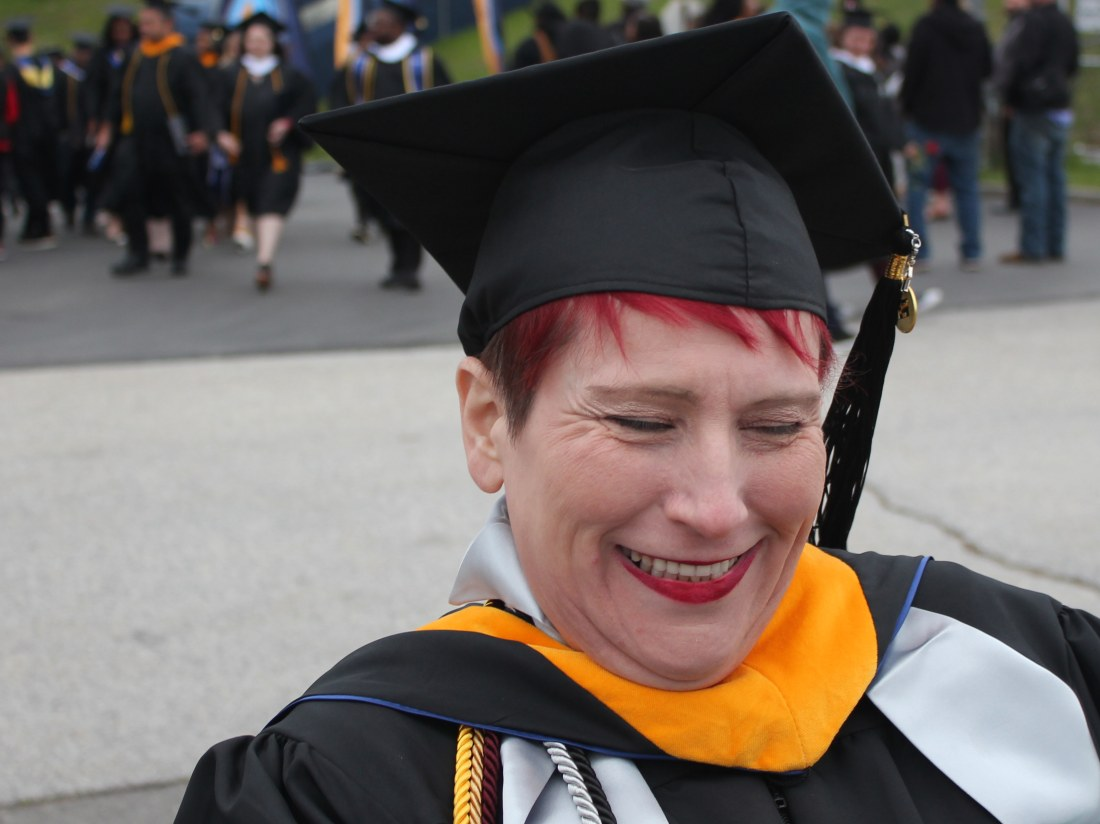
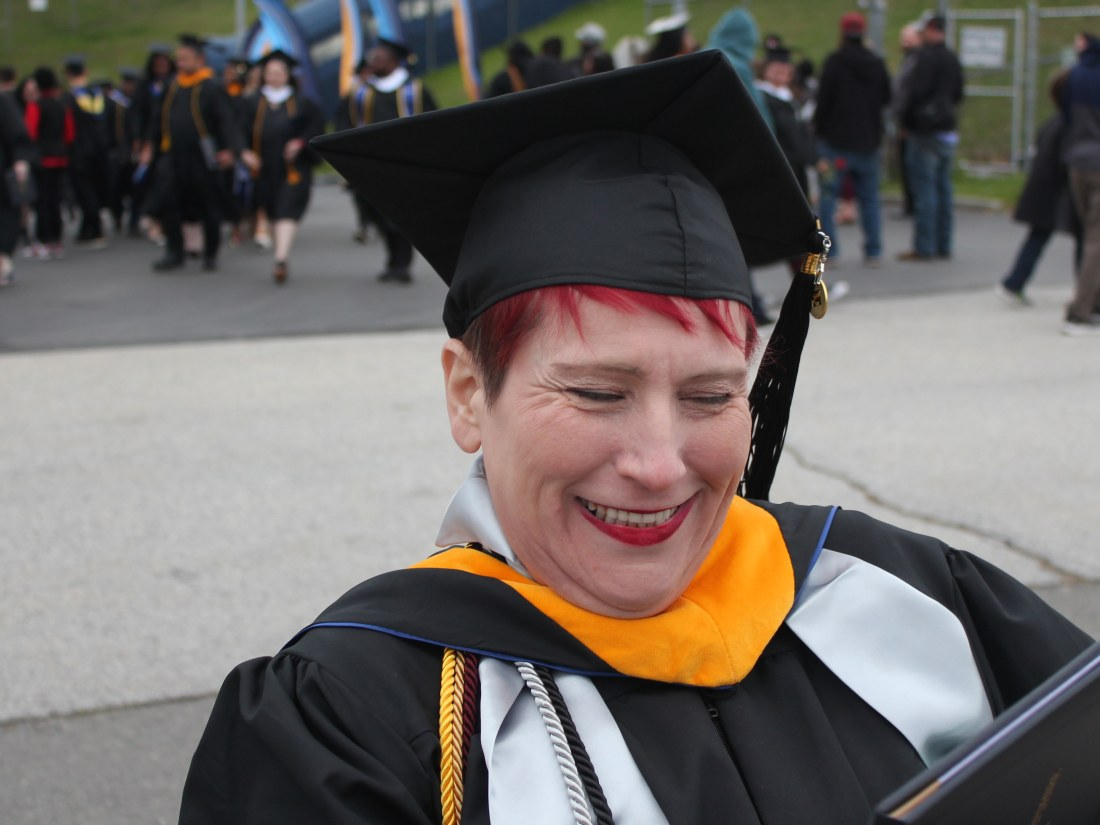
Rework graduation photo strip and captions
- Replace the three-photo row with a seamless four-up strip, zero gap.
- Regenerate every tile as a true 4:5 file rather than imposing a CSS
  aspect ratio on mismatched sources. That mismatch is what stretched the
  portrait vertically.
- Widen all crops to include more of the scene.
- Add a fourth image showing the full regalia and Sigma Alpha Pi stole.
- Rewrite the captions. Removed the 'Reader,' construction, which was a
  literary allusion that read as a stray word without the reference.
- Note gig work in the copy, phrased as work fitted around coursework
  rather than a concurrent career, which would overstate it.

diff --git a/about.html b/about.html
@@ -88,7 +88,7 @@
       <div class="story-text">
         <p>Alpha Sigma Lambda exists as its own honor society for a reason. It recognises non-traditional students specifically, because going to college as an adult is a different exercise from going at eighteen. Nobody hands you four unstructured years and a dorm room. You fit it into a life that is already full.</p>
 
-        <p>Mine was full. A household to keep running, a partner, two elderly cats, and the ordinary weight of being someone who had already been working for a decade. My partner agreed to carry our finances so I could go full time, which is its own kind of debt, and not the sort you repay to a bank.</p>
+        <p>Mine was full. A household to keep running, a partner, two elderly cats, and the ordinary weight of being someone who had already been working for a decade. My partner agreed to carry our finances so I could go full time, which is its own kind of debt, and not the sort you repay to a bank. I picked up gig work where it fitted around coursework, but the honest arrangement was that somebody else absorbed the risk so I could concentrate.</p>
 
         <p>The hard part was never any single assignment. It was the compounding: the week where the group project and the exam and the thing that broke at home all landed together, and the only way through was to keep showing up anyway. There were absolutely nights I wondered whether starting over this late had been a spectacular miscalculation.</p>
 
@@ -98,23 +98,27 @@
       </div>
 
       <figure class="story-figure">
-        <img src="assets/graduation-diploma.jpg" alt="Crystal Brock opening her diploma folder after the ceremony" loading="lazy" width="1100" height="824">
+        <img src="assets/graduation-diploma.jpg" alt="Crystal Brock opening her diploma folder after the ceremony" loading="lazy" width="1100" height="825">
         <figcaption>Opening the folder. Worth every semester of it.</figcaption>
       </figure>
     </div>
 
-    <div class="photo-row">
+    <div class="photo-strip">
       <figure>
-        <img src="assets/graduation-portrait.jpg" alt="Crystal Brock in cap, gown and honor cords" loading="lazy" width="900" height="1125">
-        <figcaption>Cap, gown, gold hood and cords for two honor societies</figcaption>
+        <img src="assets/grad-1-portrait.jpg" alt="Crystal Brock in cap and gown for her formal graduation portrait" loading="lazy" width="760" height="950">
+        <figcaption>The formal one. Gold hood, and cords for both honor societies.</figcaption>
       </figure>
       <figure>
-        <img src="assets/graduation-ceremony.jpg" alt="Crystal Brock seated among fellow graduates at commencement" loading="lazy" width="1100" height="725">
-        <figcaption>Commencement, May 2026</figcaption>
+        <img src="assets/grad-2-stole.jpg" alt="Crystal Brock in full regalia wearing her Sigma Alpha Pi stole" loading="lazy" width="760" height="950">
+        <figcaption>The Sigma Alpha Pi stole, and every cord I had earned.</figcaption>
       </figure>
       <figure>
-        <img src="assets/graduation-cords.jpg" alt="Crystal Brock after the ceremony, diploma under one arm" loading="lazy" width="1100" height="824">
-        <figcaption>Reader, she was pleased with herself</figcaption>
+        <img src="assets/grad-3-ceremony.jpg" alt="Crystal Brock seated among fellow graduates during commencement" loading="lazy" width="760" height="950">
+        <figcaption>Commencement, May 2026, somewhere in a very long line.</figcaption>
+      </figure>
+      <figure>
+        <img src="assets/grad-4-after.jpg" alt="Crystal Brock outside after the ceremony, gesturing at herself" loading="lazy" width="760" height="950">
+        <figcaption>Straight afterwards, not remotely playing it cool.</figcaption>
       </figure>
     </div>
   </section>

diff --git a/style.css b/style.css
@@ -341,17 +341,30 @@ h1,h2,h3,h4{font-family:var(--serif);letter-spacing:-.018em;line-height:1.15}
   font-size:.84rem;color:var(--tx-3);margin-top:.7rem;line-height:1.5;
 }
 
-.photo-row{
-  display:grid;grid-template-columns:repeat(auto-fit,minmax(230px,1fr));
-  gap:1.3rem;margin-top:clamp(2rem,5vw,3rem);
+/* Seamless four-up strip. Every tile is a true 4:5 file, so no CSS
+   aspect-ratio is imposed and nothing can distort. */
+.photo-strip{
+  display:grid;grid-template-columns:repeat(4,1fr);gap:0;
+  margin-top:clamp(2rem,5vw,3rem);
 }
-.photo-row figure{margin:0}
-.photo-row img{
-  width:100%;aspect-ratio:4/3;object-fit:cover;object-position:50% 30%;
-  border-radius:var(--r);border:1px solid var(--line);
-  box-shadow:0 8px 22px var(--sh);transition:transform .25s,box-shadow .25s;
+@media(max-width:860px){.photo-strip{grid-template-columns:repeat(2,1fr)}}
+.photo-strip figure{margin:0;min-width:0}
+.photo-strip img{
+  width:100%;height:auto;display:block;
+  border-top:1px solid var(--line);border-bottom:1px solid var(--line);
 }
-.photo-row figure:hover img{transform:translateY(-3px);box-shadow:0 14px 32px var(--sh-2)}
+.photo-strip figure:first-child img{border-left:1px solid var(--line);border-radius:var(--r) 0 0 0}
+.photo-strip figure:last-child  img{border-right:1px solid var(--line);border-radius:0 var(--r) 0 0}
+@media(max-width:860px){
+  .photo-strip figure:first-child img{border-radius:var(--r) 0 0 0}
+  .photo-strip figure:nth-child(2) img{border-right:1px solid var(--line);border-radius:0 var(--r) 0 0}
+  .photo-strip figure:nth-child(3) img{border-left:1px solid var(--line);border-radius:0}
+  .photo-strip figure:last-child img{border-radius:0}
+}
+.photo-strip figcaption{
+  font-size:.79rem;color:var(--tx-3);line-height:1.5;
+  padding:.75rem 1rem .75rem 0;
+}
 
 figure.media{margin-top:1.5rem}
 figure.media video,figure.media img{width:100%;border-radius:var(--r);border:1px solid var(--line)}
